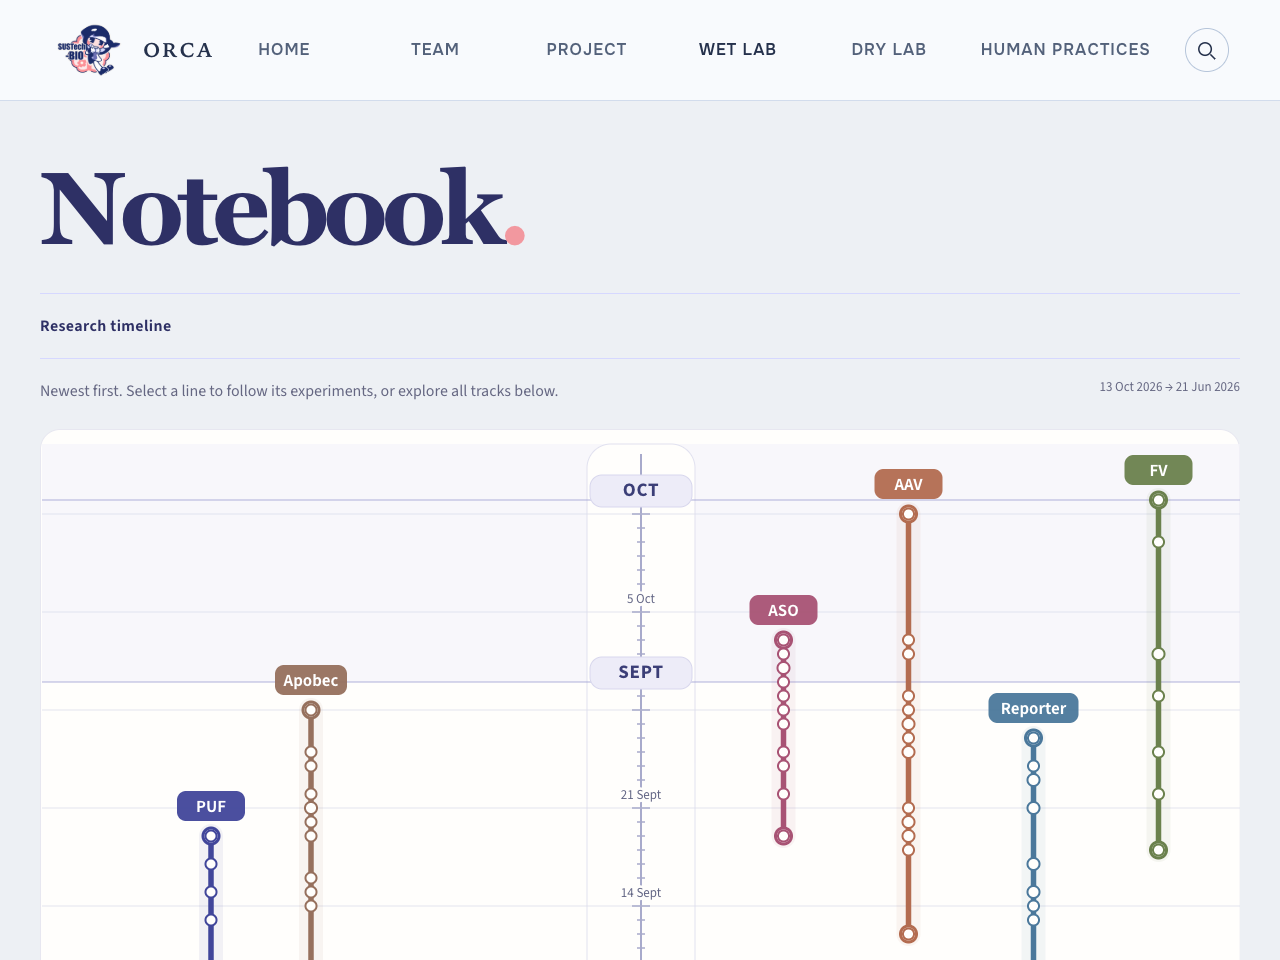
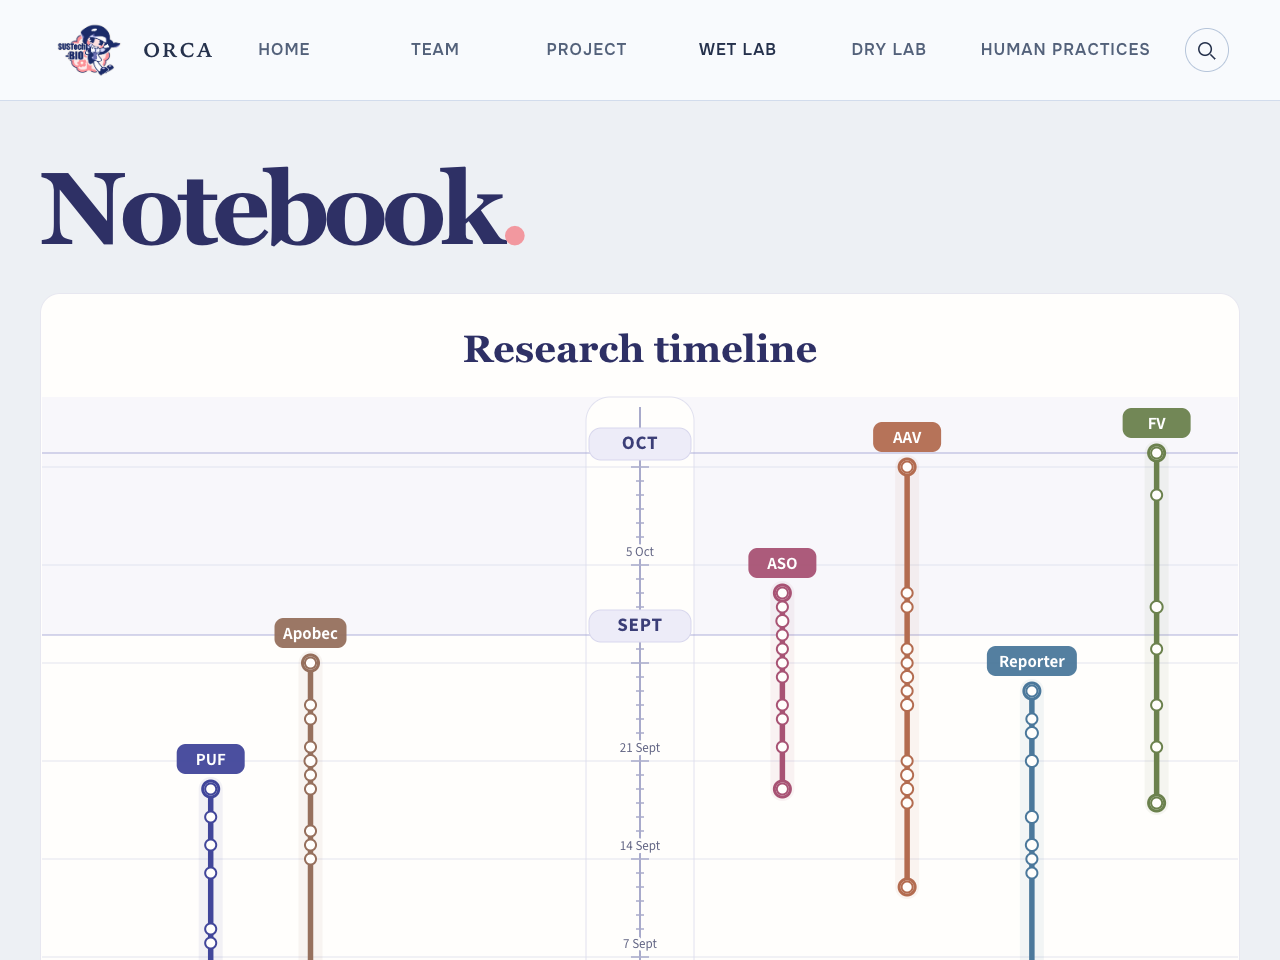
Simplify Notebook timeline header and separators

diff --git a/static/notebook/notebook.css b/static/notebook/notebook.css
@@ -4,7 +4,7 @@
 html:has(.notebook-page){scroll-behavior:auto}
 .notebook-page{--sans:'Source Sans 3','Segoe UI',Arial,sans-serif;--nb-ink:#2e3065;--nb-muted:#656782;--nb-line:#d6d8ff;--nb-paper:#fffefc;max-width:none;padding:55px 40px 75px;background:radial-gradient(ellipse at 92% 0,#f2989f14,transparent 26%),var(--nb-paper);color:var(--nb-ink);font-family:var(--sans)}
 .notebook-page [hidden]{display:none!important}.notebook-page button,.notebook-page select{font:inherit}.notebook-page button{cursor:pointer}.notebook-page :is(button,a,select,[tabindex]):focus-visible{outline:3px solid #5f62cd;outline-offset:4px}.nb-intro,.nb-app,.nb-source-index{max-width:1260px;margin-inline:auto}.nb-eyebrow{font-size:11px;font-weight:700;letter-spacing:.18em;color:#6f71a0;margin:0 0 22px}.nb-intro h1{font-family:Georgia,serif;font-size:clamp(68px,8vw,114px);font-weight:700;letter-spacing:-.065em;line-height:1.05;margin:0 0 32px}.nb-intro h1>span{color:#f2989f}
-.nb-toolbar{position:sticky;top:var(--nav-h,100px);z-index:25;display:flex;align-items:center;justify-content:space-between;flex-wrap:wrap;gap:14px;padding:19px 0;border-top:1px solid var(--nb-line);border-bottom:1px solid var(--nb-line);background:#fffefcf5;backdrop-filter:blur(12px)}.nb-view-label{display:flex;gap:24px;align-items:center;font-size:13px;font-weight:650;letter-spacing:.025em}.nb-back{border:0;background:#ededff;color:#3d409b;border-radius:22px;padding:10px 16px;min-height:44px}.nb-jump{display:flex;align-items:center;gap:8px;font-size:12px}.nb-jump select{max-width:165px;border:1px solid var(--nb-line);background:var(--nb-paper);border-radius:8px;padding:10px;color:var(--nb-ink)}
+.nb-toolbar{position:sticky;top:var(--nav-h,100px);z-index:25;display:flex;align-items:center;justify-content:space-between;flex-wrap:wrap;gap:14px;padding:19px 0;background:#fffefcf5;backdrop-filter:blur(12px)}.nb-view-label{display:flex;gap:24px;align-items:center;font-size:13px;font-weight:650;letter-spacing:.025em}.nb-back{border:0;background:#ededff;color:#3d409b;border-radius:22px;padding:10px 16px;min-height:44px}.nb-jump{display:flex;align-items:center;gap:8px;font-size:12px}.nb-jump select{max-width:165px;border:1px solid var(--nb-line);background:var(--nb-paper);border-radius:8px;padding:10px;color:var(--nb-ink)}
 .nb-tracks{display:flex;flex-wrap:wrap;gap:8px;margin:24px 0 20px}.nb-track-chip{display:flex;align-items:center;gap:9px;border:1px solid #e4e4f2;background:transparent;padding:10px 13px;min-height:44px;border-radius:30px;color:var(--nb-ink);font-size:12px!important;transition:background .2s,border-color .2s}.nb-track-chip::before{content:'';width:8px;height:8px;background:var(--track);border-radius:50%}.nb-track-chip small{color:var(--nb-muted);font-size:10px}.nb-caption{display:flex;justify-content:space-between;gap:20px;font-size:12px;color:var(--nb-muted);margin:0 0 20px}.nb-caption p{margin:0}.nb-caption>span{white-space:nowrap}.nb-focus-heading{padding:16px 0 30px 325px}.nb-focus-heading h2{font:700 clamp(28px,3vw,42px)/1.2 Georgia,serif;margin:4px 0 8px;color:var(--track)}.nb-focus-heading p{margin:0;font-size:14px;color:var(--nb-muted)}.nb-viewport{position:relative}.nb-stage{position:relative;min-width:760px;isolation:isolate}.nb-map{display:block;position:absolute;inset:0;width:100%;height:100%;overflow:visible;pointer-events:none}.nb-map [data-map-group]{transition:transform .48s cubic-bezier(.22,.7,.2,1)}.nb-lane{transition:transform .48s cubic-bezier(.22,.7,.2,1),opacity .2s;pointer-events:all;cursor:pointer}.nb-lane:focus{outline:none}.nb-lane:focus-visible .nb-track-line{stroke-width:6}.nb-track-line{stroke-width:2.5;stroke-linecap:round;fill:none}.nb-lane-hit{stroke:transparent;stroke-width:34;fill:none}.nb-event{fill:var(--nb-paper);stroke:currentColor;stroke-width:2}.nb-lane.is-highlighted .nb-event,.nb-lane.is-selected .nb-event{fill:currentColor;stroke:var(--nb-paper);stroke-width:1.5}.nb-lane.is-muted{opacity:.2}.nb-line-label{font-size:12px;font-weight:600;fill:currentColor;paint-order:stroke;stroke:var(--nb-paper);stroke-width:6px;stroke-linejoin:round}.nb-terminal{fill:var(--nb-paper);stroke:currentColor;stroke-width:2}.nb-axis{stroke:#bdbed9;stroke-width:1}.nb-tick-line{stroke:#d2d3e6;stroke-width:1}.nb-tick text{font-size:10px;fill:#777995;paint-order:stroke;stroke:var(--nb-paper);stroke-width:5px}.nb-tick.is-month text{font-weight:700;font-size:12px;fill:#3d409b}.nb-tick.is-month line{stroke:#9b9ed1}.nb-tick.is-active text{fill:#3d409b;font-weight:700}.nb-date-target{pointer-events:all;cursor:pointer}.nb-date-target:focus{outline:none}.nb-date-target:focus-visible .nb-event{stroke:#191a59;stroke-width:5}.nb-connector{stroke:var(--track);stroke-width:1;opacity:.35;stroke-dasharray:3 4}.nb-records{position:relative;margin-left:325px;padding:0 0 48px;pointer-events:auto}.nb-day{position:relative;padding:0 0 26px;scroll-margin-top:calc(var(--nav-h,100px) + 100px)}.nb-day-label{font-size:11px;letter-spacing:.09em;text-transform:uppercase;color:var(--nb-muted);margin:0 0 10px;display:flex;justify-content:space-between}.nb-card{position:relative;background:#fff;border:1px solid #e1e1f0;border-left:3px solid var(--track);border-radius:0 17px 17px 17px;margin-bottom:12px;box-shadow:0 4px 18px #2e306504}.nb-card:before{content:'';position:absolute;top:19px;left:-9px;width:12px;height:12px;background:#fff;border-left:1px solid var(--track);border-bottom:1px solid var(--track);transform:rotate(45deg)}.nb-card-toggle{border:0;background:transparent;width:100%;text-align:left;display:flex;align-items:center;justify-content:space-between;gap:20px;padding:22px 24px;color:var(--nb-ink);border-radius:0 16px 16px 16px}.nb-card-toggle:hover{background:#f7f7fd}.nb-card-title{font-size:17px;line-height:1.45;font-weight:600;display:block}.nb-card-meta{display:block;font-size:11px;font-weight:400;margin-top:8px;color:var(--nb-muted);line-height:1.6}.nb-chevron{font-size:24px;color:var(--track);transition:transform .2s}.nb-card-toggle[aria-expanded=true] .nb-chevron{transform:rotate(90deg)}.nb-card-body{padding:0 24px 22px}.nb-source-actions{display:flex;justify-content:space-between;flex-wrap:wrap;align-items:center;gap:12px;border-top:1px solid #ececf5;padding:18px 0;font-size:12px}.nb-source-actions a,.nb-source-index a,.nb-page-caption a{color:#3d409b;text-underline-offset:4px}.nb-pages{display:grid;gap:22px}.nb-pdf-page{margin:0}.nb-pdf-page>a{display:block;background:#f7f6f2;border:1px solid #e8e7ef}.nb-pdf-page img{display:block;width:100%;height:auto}.nb-page-caption{display:flex;gap:12px;justify-content:space-between;font-size:11px;color:var(--nb-muted);padding-top:9px}.nb-page-error{padding:24px;background:#f5f4fc;border-radius:8px;font-size:14px}.nb-end{margin:15px 0 40px 325px;border-top:1px solid var(--nb-line);padding:30px 0}.nb-end h3{font:700 27px Georgia,serif;margin:0 0 12px}.nb-end p{font-size:14px;color:var(--nb-muted)}.nb-end a{color:#3d409b}.nb-status{font-size:14px;color:var(--nb-muted);margin:15px 0}.nb-status:empty{display:none}.nb-source-index{border-top:1px solid var(--nb-line);padding-top:24px;margin-top:30px;display:flex;justify-content:space-between;gap:16px;font-size:12px;color:var(--nb-muted)}.nb-app.is-focus .nb-lane:not(.is-selected){opacity:.17}.nb-app.is-focus .nb-lane:hover,.nb-app.is-focus .nb-lane:focus-visible{opacity:.7}.nb-app.is-focus .nb-line-label{display:none}.nb-app.is-focus .nb-tick text{font-size:10px}.nb-app.is-focus .nb-map{z-index:2}.nb-app.is-focus .nb-records{z-index:1}.nb-app.is-focus .nb-records{animation:nb-entries-in .3s ease both}@keyframes nb-entries-in{from{opacity:0;transform:translateX(12px)}to{opacity:1;transform:translateX(0)}}
 /* Only this page suppresses the shared reading orbit, which would compete with its timeline. */
 body:has(.notebook-page) .reading-orbit{display:none!important}
@@ -150,4 +150,9 @@ body:not(.ot) main.notebook-page { background: #edf0f4; }
 }
 
 /* Overview reads backward through the calendar, then reaches all track cards. */
-.nb-app:not(.is-focus) .nb-tracks{margin:36px 0 0;padding-top:32px;border-top:1px solid var(--nb-line)}
+.nb-app:not(.is-focus) .nb-toolbar{display:none}
+.nb-app:not(.is-focus) .nb-timeline{background:#fffefc;border:1px solid #e7e7f0;border-radius:20px;overflow:hidden}
+.nb-timeline-title{margin:0;padding:32px 18px 12px;text-align:center;font:700 clamp(28px,3vw,38px)/1.2 Georgia,serif;color:var(--nb-ink)}
+.nb-app:not(.is-focus) .nb-map{border:0;border-radius:0;background:transparent}
+.nb-app.is-focus .nb-timeline-title{display:none}
+.nb-app:not(.is-focus) .nb-tracks{margin:36px 0 0}

diff --git a/wiki/pages/notebook.html b/wiki/pages/notebook.html
@@ -8,16 +8,18 @@
   </header>
   <section class="nb-app" data-notebook data-index="{{ url_for('static', filename='notebook/index.json') }}" aria-label="Interactive research notebook" aria-busy="true">
     <div class="nb-toolbar">
-      <div class="nb-view-label"><button class="nb-back" type="button" data-back hidden aria-label="Return to timeline overview">← <span>Overview</span></button><span data-view-label>Research timeline</span></div>
+      <div class="nb-view-label"><button class="nb-back" type="button" data-back hidden aria-label="Return to timeline overview">← <span>Overview</span></button><span data-view-label></span></div>
       <label class="nb-track-switch" hidden data-switch-label>Track <select data-switch aria-label="Switch experimental track"></select></label>
       <label class="nb-jump" hidden data-jump-label>Jump to date <select data-jump aria-label="Jump to a recorded date"></select></label>
     </div>
-    <div class="nb-caption"><p data-instruction>Select a line to follow its experiments.</p><span data-date-range></span></div>
     <div class="nb-focus-heading" data-focus-heading hidden tabindex="-1"></div>
-    <div class="nb-viewport" data-viewport tabindex="0" aria-label="Timeline; scroll horizontally on small screens">
-      <div class="nb-stage" data-stage>
-        <svg class="nb-map" data-map aria-label="Calendar and experimental tracks" role="group"><g data-map-group></g></svg>
-        <div class="nb-records" data-records></div>
+    <div class="nb-timeline">
+      <h2 class="nb-timeline-title">Research timeline</h2>
+      <div class="nb-viewport" data-viewport tabindex="0" aria-label="Timeline; scroll horizontally on small screens">
+        <div class="nb-stage" data-stage>
+          <svg class="nb-map" data-map aria-label="Calendar and experimental tracks" role="group"><g data-map-group></g></svg>
+          <div class="nb-records" data-records></div>
+        </div>
       </div>
     </div>
     <div class="nb-end" data-end hidden></div>
